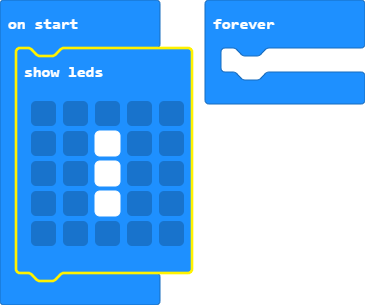
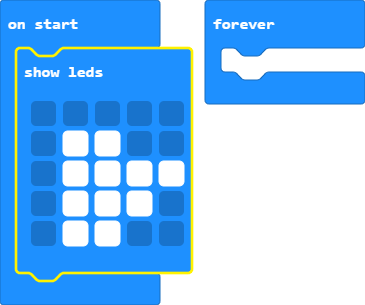
Update main.blocks, main.ts

Changed region(s): [[0.1507, 0.4131, 0.3315, 0.8262], [0.3315, 0.5016, 0.5123, 0.7377]]

diff --git a/main.ts b/main.ts
@@ -1,9 +1,9 @@
 basic.showLeds(`
     . . . . .
-    . . # . .
-    . . # . .
-    . . # . .
-    . . . . .
+    . # # . .
+    . # # # #
+    . # # # .
+    . # # . .
     `)
 basic.forever(function () {
 	
